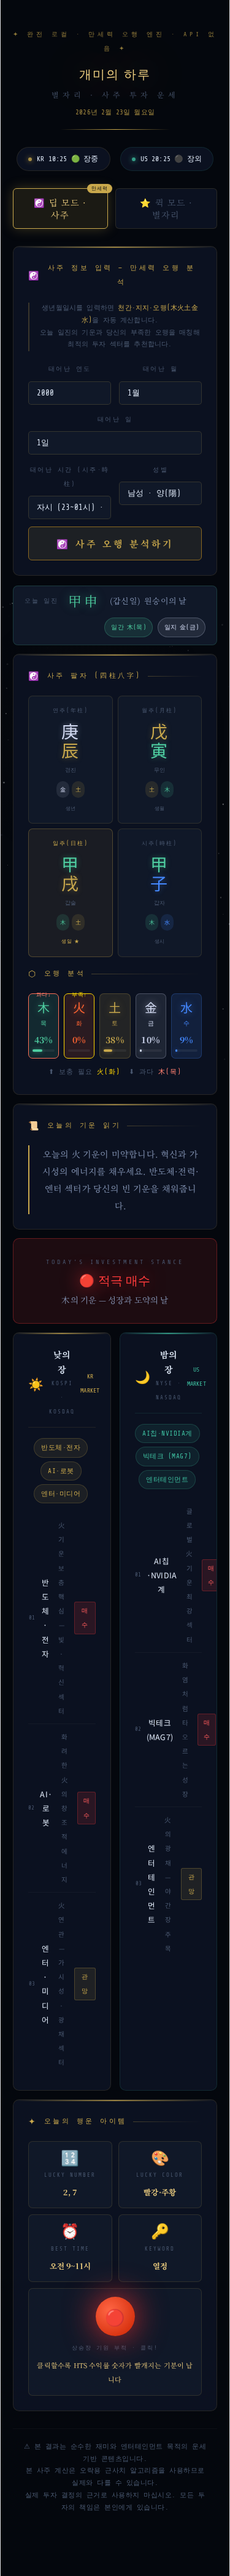
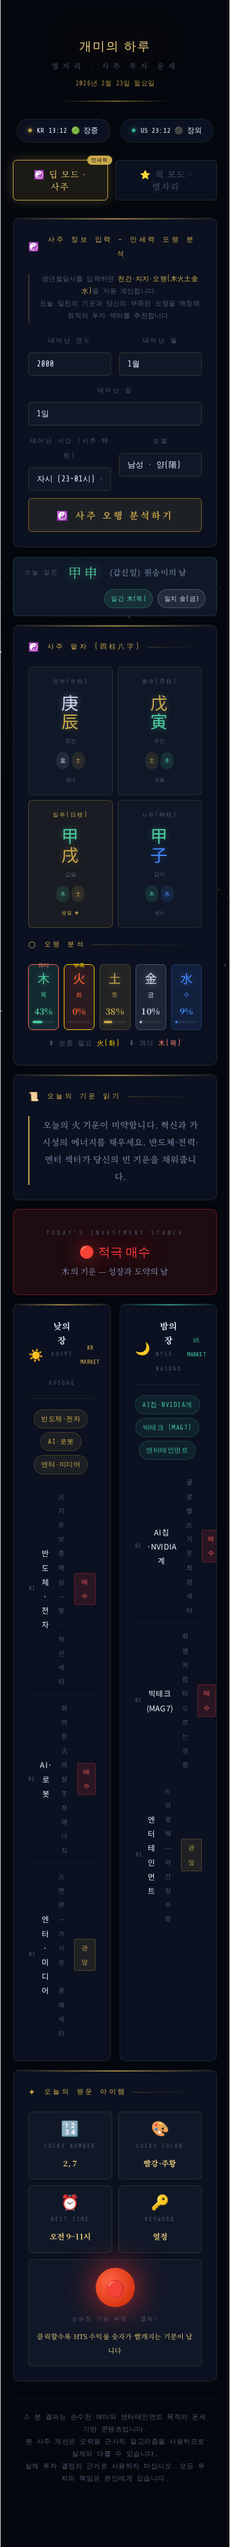
chore: update text labels and remove unused disclaimer
- Changed '태어난 월 (자동 판별)' to '태어난 월'.
- Removed '완전 로컬 · 만세력 오행 엔진 · API 없음' header text.
- Simplified '부족↑' and '과다↓' to '부족' and '과다'.

diff --git a/src/App.jsx b/src/App.jsx
@@ -245,9 +245,9 @@ function OhaengGauge({score,lacking,dominant}) {
               border:`1px solid ${isLack?"#FFD700":isDom?"#FF7055":OH_COLOR[oh]+"40"}`,
               borderRadius:7,padding:"10px 6px",textAlign:"center",position:"relative"}}>
               {isLack&&<div style={{position:"absolute",top:-10,left:"50%",transform:"translateX(-50%)",
-                fontSize:9,color:"#FFD700",whiteSpace:"nowrap",fontFamily:F.mono}}>부족↑</div>}
+                fontSize:9,color:"#FFD700",whiteSpace:"nowrap",fontFamily:F.mono}}>부족</div>}
               {isDom&&<div style={{position:"absolute",top:-10,left:"50%",transform:"translateX(-50%)",
-                fontSize:9,color:"#FF8070",whiteSpace:"nowrap",fontFamily:F.mono}}>과다↓</div>}
+                fontSize:9,color:"#FF8070",whiteSpace:"nowrap",fontFamily:F.mono}}>과다</div>}
               <div style={{fontSize:20,color:OH_COLOR[oh],
                 textShadow:`0 0 12px ${OH_COLOR[oh]}88`,marginBottom:3}}>{OH_CHAR[oh]}</div>
               <div style={{fontFamily:F.mono,fontSize:10,color:OH_COLOR[oh]}}>{oh}</div>
@@ -575,10 +575,6 @@ export default function AntFortune() {
 
         {/* 헤더 */}
         <div style={{textAlign:"center",padding:"44px 0 28px"}}>
-          <div style={{fontFamily:F.mono,fontSize:10,letterSpacing:5,
-            color:C.gold,marginBottom:14,opacity:.7}}>
-            ✦ 완전 로컬 · 만세력 오행 엔진 · API 없음 ✦
-          </div>
           <h1 style={{fontFamily:F.display,fontSize:"clamp(20px,3.2vw,36px)",
             color:C.goldL,animation:"glow 4s ease-in-out infinite",
             letterSpacing:2,marginBottom:8}}>개미의 하루</h1>
@@ -666,7 +662,7 @@ export default function AntFortune() {
             </div>
             {/* 생일 입력 */}
             <div style={{display:"flex",gap:13,marginBottom:20,flexWrap:"wrap"}}>
-              <Sel label="태어난 월 (자동 판별)" value={zodiacForm.month} onChange={v => {
+              <Sel label="태어난 월" value={zodiacForm.month} onChange={v => {
                 const s = updateZodiacSign(v, zodiacForm.day);
                 setZodiacForm(prev => ({ ...prev, month: v, sign: s || prev.sign }));
               }}>
